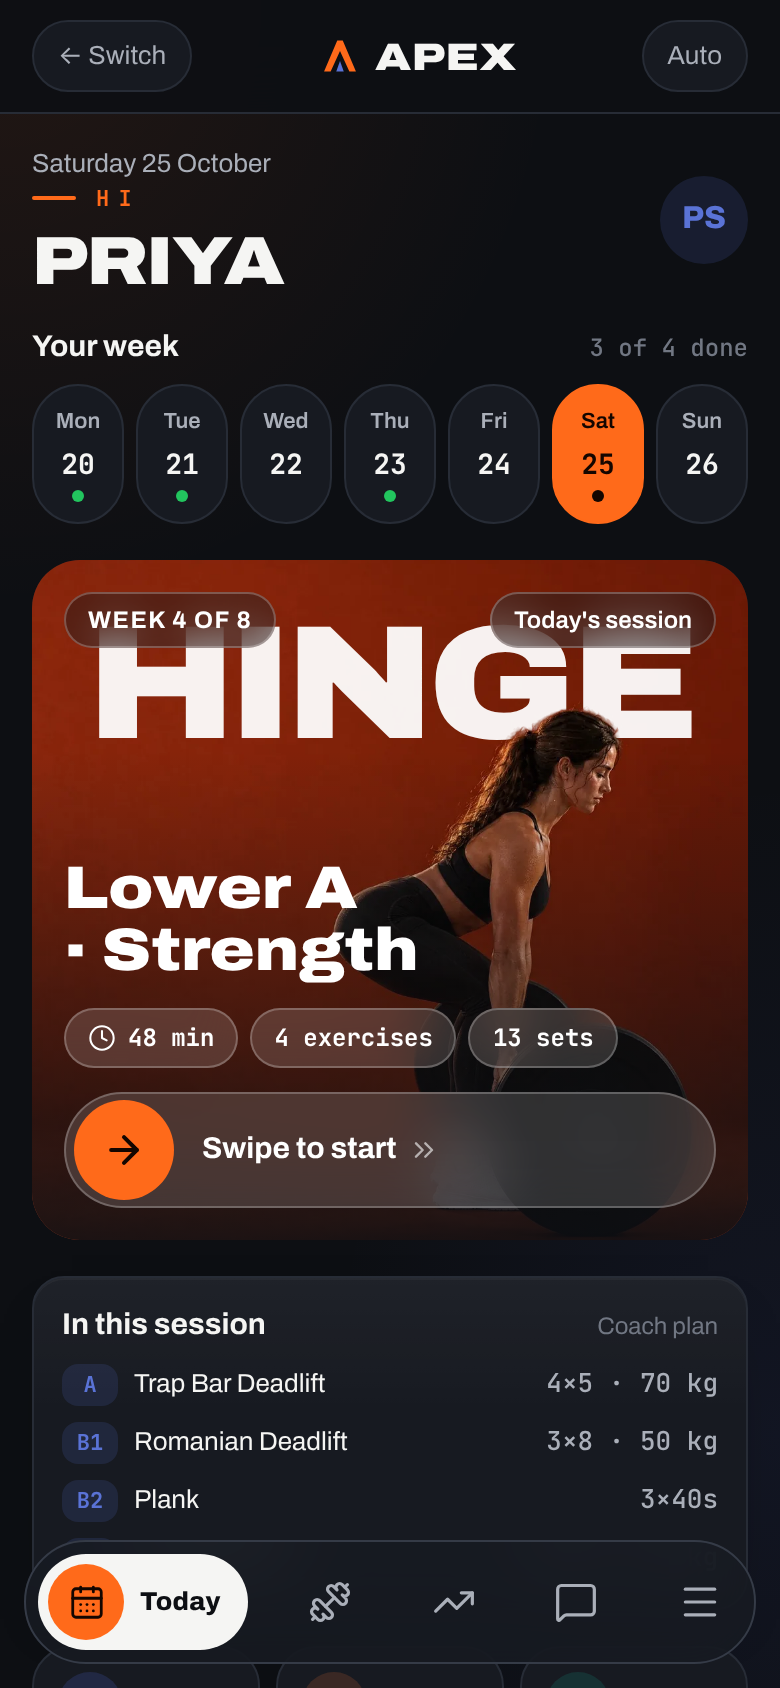
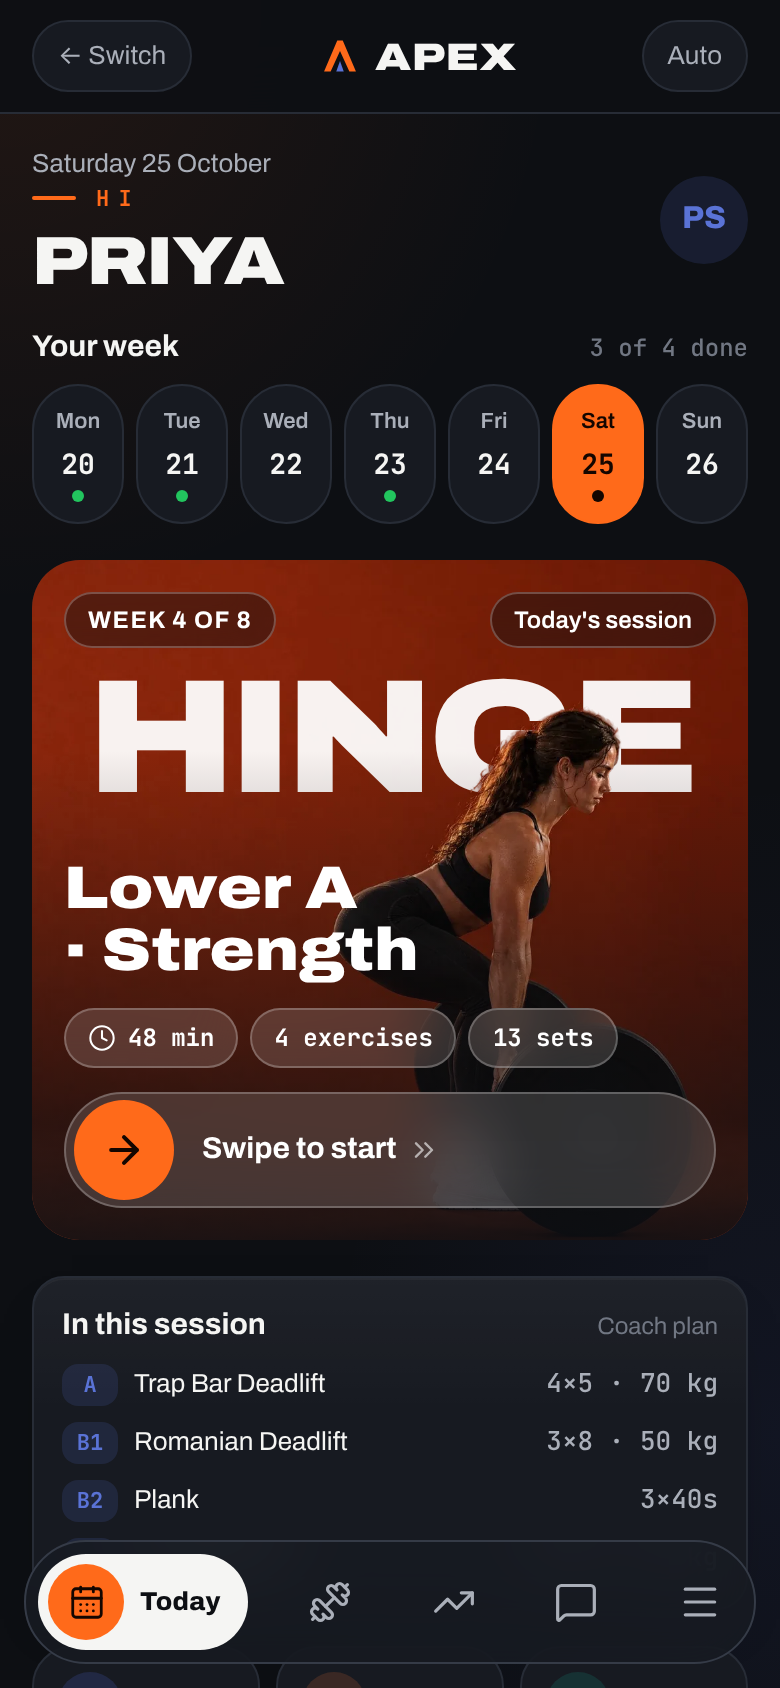
Daylight v4: place poster word clear of pills on short cards
Claude-Session: https://claude.ai/code/session_016AGgtKAaMziEC4MQwif3ag

Changed region(s): [[0.1231, 0.3389, 0.8923, 0.4929]]

diff --git a/packages/ui/src/styles.css b/packages/ui/src/styles.css
@@ -591,7 +591,8 @@ textarea.field{resize:vertical;line-height:1.5;font-family:inherit}
 .hero{position:relative;container-type:inline-size;border-radius:var(--r-lg);overflow:hidden;background:var(--card2) center/cover no-repeat;min-height:340px;display:flex;flex-direction:column;justify-content:space-between;padding:16px;color:var(--glass-ink);isolation:isolate}
 .hero>img.hero-img,.hero>video.hero-img{position:absolute;inset:0;width:100%;height:100%;object-fit:cover;z-index:-4}
 /* Poster word behind the athlete: photo (-4), word (-3), athlete cut-out (-2), legibility fade (-1) */
-.hero-word{position:absolute;left:0;right:0;top:9%;z-index:-3;text-align:center;font:900 min(42cqw,calc(124cqw / var(--n,5)))/.8 var(--head);font-stretch:112%;letter-spacing:-.035em;white-space:nowrap;pointer-events:none;user-select:none}
+.hero-word{position:absolute;left:0;right:0;top:17%;z-index:-3;text-align:center;font:900 min(42cqw,calc(124cqw / var(--n,5)))/.8 var(--head);font-stretch:112%;letter-spacing:-.035em;white-space:nowrap;pointer-events:none;user-select:none}
+.hero.short .hero-word{top:6%;text-align:right;right:5%;font-size:min(30cqw,calc(96cqw / var(--n,5)))}
 .hero-word.ink-light{color:rgba(255,255,255,.94)}
 .hero-word.ink-act{color:#FF6A1A}
 .hero>img.hero-cut,.pl-hero>img.hero-cut{position:absolute;inset:0;width:100%;height:100%;object-fit:cover;z-index:-2;pointer-events:none}
